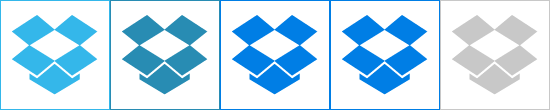
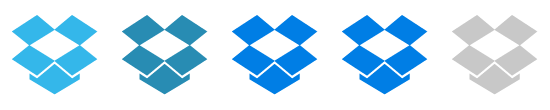
Improve home screen

Changed region(s): [[0.0, 0.0, 1.0, 1.0]]

diff --git a/app/styles/default/theme.scss b/app/styles/default/theme.scss
@@ -106,17 +106,24 @@ body, input[type="text"] {
 				margin: 10px;
 				cursor: pointer;
 				user-select: none;
+				padding-top: 90px;
 				background: {
 					repeat: no-repeat;
 					size: auto 110px;
-					position: 0px 0px;
+					position: 0px -8px;
+				}
+				border: 1px solid 34b7ea;
+				font: {
+					size: 16;
 				}
 			}
 			li:hover {
-				background-position: -110px 0px;
+				background-position: -110px -8px;
+				border: 1px solid 288cb3;
 			}
 			li:active {
-				background-position: -220px 0px;
+				background-position: -220px -8px;
+				border: 1px solid 195a73;
 			}
 			li.dropbox {
 				background-image: url('../images/default/home-dropbox.png');
